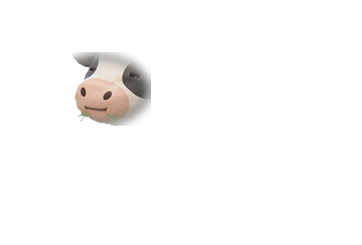
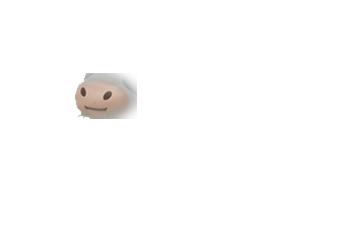
Refine cow jaw rig mask

Changed region(s): [[0.1823, 0.2, 0.4254, 0.5143]]

diff --git a/app/globals.css b/app/globals.css
@@ -35,8 +35,8 @@
   will-change: transform;
 }
 .cow-rig-jaw {
-  animation: cow-chew .52s cubic-bezier(.37, 0, .63, 1) infinite alternate;
-  transform-origin: 31% 43%;
+  animation: cow-chew .58s cubic-bezier(.45, 0, .55, 1) infinite alternate;
+  transform-origin: 27% 43%;
   will-change: transform;
 }
 .cow-static { display: none; }
@@ -45,8 +45,8 @@
   50% { transform: translate3d(0, -1.5px, 0) rotate(-.12deg) scaleY(1.006); }
 }
 @keyframes cow-chew {
-  0% { transform: translate3d(0, -1px, 0) rotate(-.35deg) scaleY(.99); }
-  100% { transform: translate3d(0, 1.5px, 0) rotate(.45deg) scaleY(1.015); }
+  0% { transform: translate3d(0, -.35px, 0) rotate(-.12deg) scaleY(.997); }
+  100% { transform: translate3d(0, .8px, 0) rotate(.16deg) scaleY(1.008); }
 }
 @media (prefers-reduced-motion: reduce) {
   .case-card { transform: none !important; transition: none !important; }

diff --git a/pet-cow/cleanup_strip.py b/pet-cow/cleanup_strip.py
@@ -94,11 +94,13 @@ def main() -> None:
     rig_base = rgba_frames[3]
     rig_base.save(RIG_BASE_OUTPUT, optimize=True)
     jaw = Image.new("RGBA", rig_base.size, (0, 0, 0, 0))
-    jaw_box = (45, 52, 151, 126)
+    # Keep the moving layer below the eyes. A wider face mask makes the forehead
+    # drift against the static torso and reads as a visible cutout seam.
+    jaw_box = (52, 73, 137, 119)
     jaw_patch = rig_base.crop(jaw_box)
     jaw_mask = Image.new("L", jaw_patch.size, 0)
-    ImageDraw.Draw(jaw_mask).ellipse((4, 5, jaw_patch.width - 4, jaw_patch.height - 3), fill=235)
-    jaw_mask = jaw_mask.filter(ImageFilter.GaussianBlur(5))
+    ImageDraw.Draw(jaw_mask).ellipse((5, 4, jaw_patch.width - 5, jaw_patch.height - 2), fill=215)
+    jaw_mask = jaw_mask.filter(ImageFilter.GaussianBlur(6))
     jaw.paste(jaw_patch, jaw_box[:2], jaw_mask)
     jaw.save(RIG_JAW_OUTPUT, optimize=True)
 
